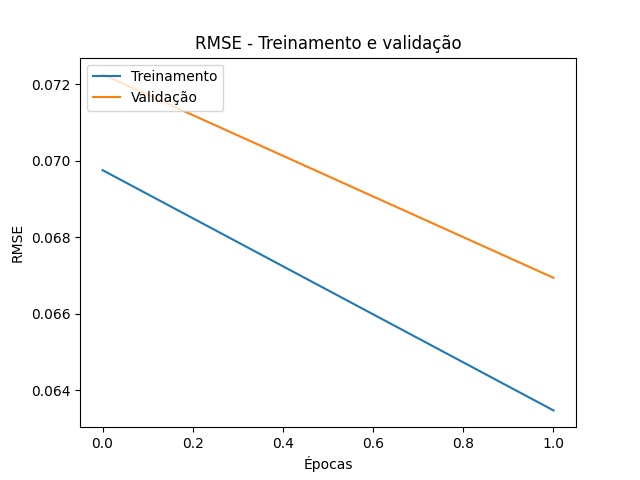
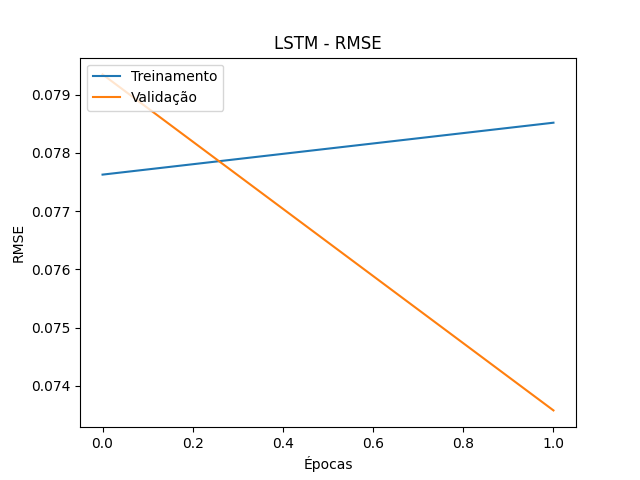
[UPD] Removido o vector_dimension, adicionado o nome do modelo nos resultados e atualizado a geração dos gráficos

diff --git a/models/Model.py b/models/Model.py
@@ -27,12 +27,12 @@ class Model:
     LEAKY_RELU = 'leaky relu'
     ELU = 'elu'
 
-    def __init__(self, input_dimension, epochs, batch_size, layers, data, path_graphics):
+    def __init__(self, model_name, epochs, batch_size, layers, data, path_graphics):
         """
         Construtor da classe
 
-        :param input_dimension: Quantidade de parâmetros de entrada para o modelo
-        :type input_dimension: int
+        :param model_name: Nome do modelo que foi instanciado
+        :type model_name: str
         :param epochs: Número de épocas para realizar o treinamento
         :type epochs: int
         :param batch_size: Número de exemplos de treinamento usados em uma iteração
@@ -45,7 +45,7 @@ class Model:
         :param path_graphics: Diretório para salvar os gráficos gerados
         :type path_graphics: str
         """
-        self.input_dimension = input_dimension
+        self.model_name = model_name
         self.epochs = epochs
         self.batch_size = batch_size
         self.layers = layers
@@ -72,9 +72,10 @@ class Model:
         # instacia o modelo
         self.model = Sequential()
 
+        # input_shape=(NUM_ENTRADAS, QTD_INFO_POR_ENTRADA)
         self.model.add(LSTM(4, input_shape=(self.data['x_train'].shape[1], self.data['x_train'].shape[2])))
 
-        # compilação do modelo com as métricas: R2, RMSE e MAPE
+        # compilação do modelo com as métricas: Acurácia, RMSE e MAPE
         self.model.compile(
             loss='binary_crossentropy',
             optimizer='adam',
@@ -127,9 +128,9 @@ class Model:
         :param metrics: Resultado obtido pelas métricas
         :type metrics: dict
         """
-        print('=> Modelo')
+        print('=> Modelo ' + self.model_name)
         for key, layer in enumerate(self.layers):
-            print('Camada %i: ' % (key + 1), end='')
+            print('camada_%i: ' % (key + 1), end='')
             print('qtd_neurons: %i; ' % layer['qtd_neurons'], end='')
             print('activation_fn: %s; ' % layer['activation'])
 
@@ -146,7 +147,7 @@ class Model:
 
         plt.plot(history.history['rmseMetric'])
         plt.plot(history.history['val_rmseMetric'])
-        plt.title('RMSE - Treinamento e validação')
+        plt.title(self.model_name + ' - RMSE')
         plt.xlabel('Épocas')
         plt.ylabel('RMSE')
         plt.legend(['Treinamento', 'Validação'], loc='upper left')
@@ -155,7 +156,7 @@ class Model:
 
         plt.plot(history.history['mape'])
         plt.plot(history.history['val_mape'])
-        plt.title('MAPE')
+        plt.title(self.model_name + ' - MAPE')
         plt.xlabel('Épocas')
         plt.ylabel('MAPE')
         plt.legend(['Treinamento', 'Validação'], loc='upper left')
@@ -164,11 +165,11 @@ class Model:
 
         plt.plot(history.history['accuracy'])
         plt.plot(history.history['val_accuracy'])
-        plt.title('R2 - Treinamento e validação')
+        plt.title(self.model_name + ' - Acurácia')
         plt.xlabel('Épocas')
-        plt.ylabel('R2')
+        plt.ylabel('Acurácia')
         plt.legend(['Treinamento', 'Validação'], loc='upper left')
-        plt.savefig(self.path_graphics + 'r2.png')
+        plt.savefig(self.path_graphics + 'acuracia.png')
         plt.close()
 
     def predict(self):

diff --git a/01teste.py b/01teste.py
@@ -1,10 +1,9 @@
 import time
 import pandas as pd
-from models.MLP import MLP
+from models.ModelMLP import ModelMLP
 from models.ModelLSTM import ModelLSTM
 from sklearn.model_selection import train_test_split
 
-VECTOR_DIMENSION = 300
 EPOCHS = 2
 BATCH_SIZE = 10
 
@@ -50,26 +49,26 @@ layers = [
     # camada de entrada
     {
         'qtd_neurons': 12,
-        'activation': MLP.RELU,
+        'activation': ModelMLP.RELU,
     },
     # camada intermediária 01
     {
         'qtd_neurons': 8,
-        'activation': MLP.RELU,
+        'activation': ModelMLP.RELU,
     },
     # camada de saída
     {
         'qtd_neurons': 1,
-        'activation': MLP.SIGMOID,
+        'activation': ModelMLP.SIGMOID,
     },
 ]
 
 # # cria o modelo e inicia a detecção
-# model_mlp = MLP(VECTOR_DIMENSION, EPOCHS, layers, data)
+# model_mlp = ModelMLP(VECTOR_DIMENSION, EPOCHS, layers, data)
 # model_mlp.predict()
 
 # cria o modelo e inicia a detecção
-model_lstm = ModelLSTM(VECTOR_DIMENSION, EPOCHS, BATCH_SIZE, layers, data)
+model_lstm = ModelLSTM(EPOCHS, BATCH_SIZE, layers, data)
 model_lstm.predict()
 
 fim = time.time()

diff --git a/models/ModelLSTM.py b/models/ModelLSTM.py
@@ -6,12 +6,10 @@ class ModelLSTM(Model):
     Classe que representa o modelo LSTM
     """
 
-    def __init__(self, input_dimension, epochs, batch_size, layers, data):
+    def __init__(self, epochs, batch_size, layers, data):
         """
         Construtor da classe
 
-        :param input_dimension: Quantidade de parâmetros de entrada para o modelo
-        :type input_dimension: int
         :param epochs: Número de épocas para realizar o treinamento
         :type epochs: int
         :param batch_size: Número de exemplos de treinamento usados em uma iteração
@@ -22,7 +20,7 @@ class ModelLSTM(Model):
         :param data: Dados utilizados na detecção
         :type data: dict
         """
-        super().__init__(input_dimension, epochs, batch_size, layers, data, 'graphics/lstm/')
+        super().__init__('LSTM', epochs, batch_size, layers, data, 'graphics/lstm/')
 
     def _updateData(self):
         """

diff --git a/models/ModelMLP.py b/models/ModelMLP.py
@@ -15,7 +15,7 @@ def rmseMetric(y_true, y_pred):
     return backend.sqrt(backend.mean(backend.square(y_pred - y_true), axis=-1))
 
 
-class MLP:
+class ModelMLP:
     """
     Classe que representa o modelo MLP
     """
@@ -67,7 +67,7 @@ class MLP:
             input_layer['qtd_neurons'],
             kernel_initializer='uniform',
             activation=input_layer['activation'],
-            input_dim=self.input_dimension,
+            input_dim=self.data['x_train'].shape[1],
         ))
 
         # insere as camadas intermediárias e de saída
